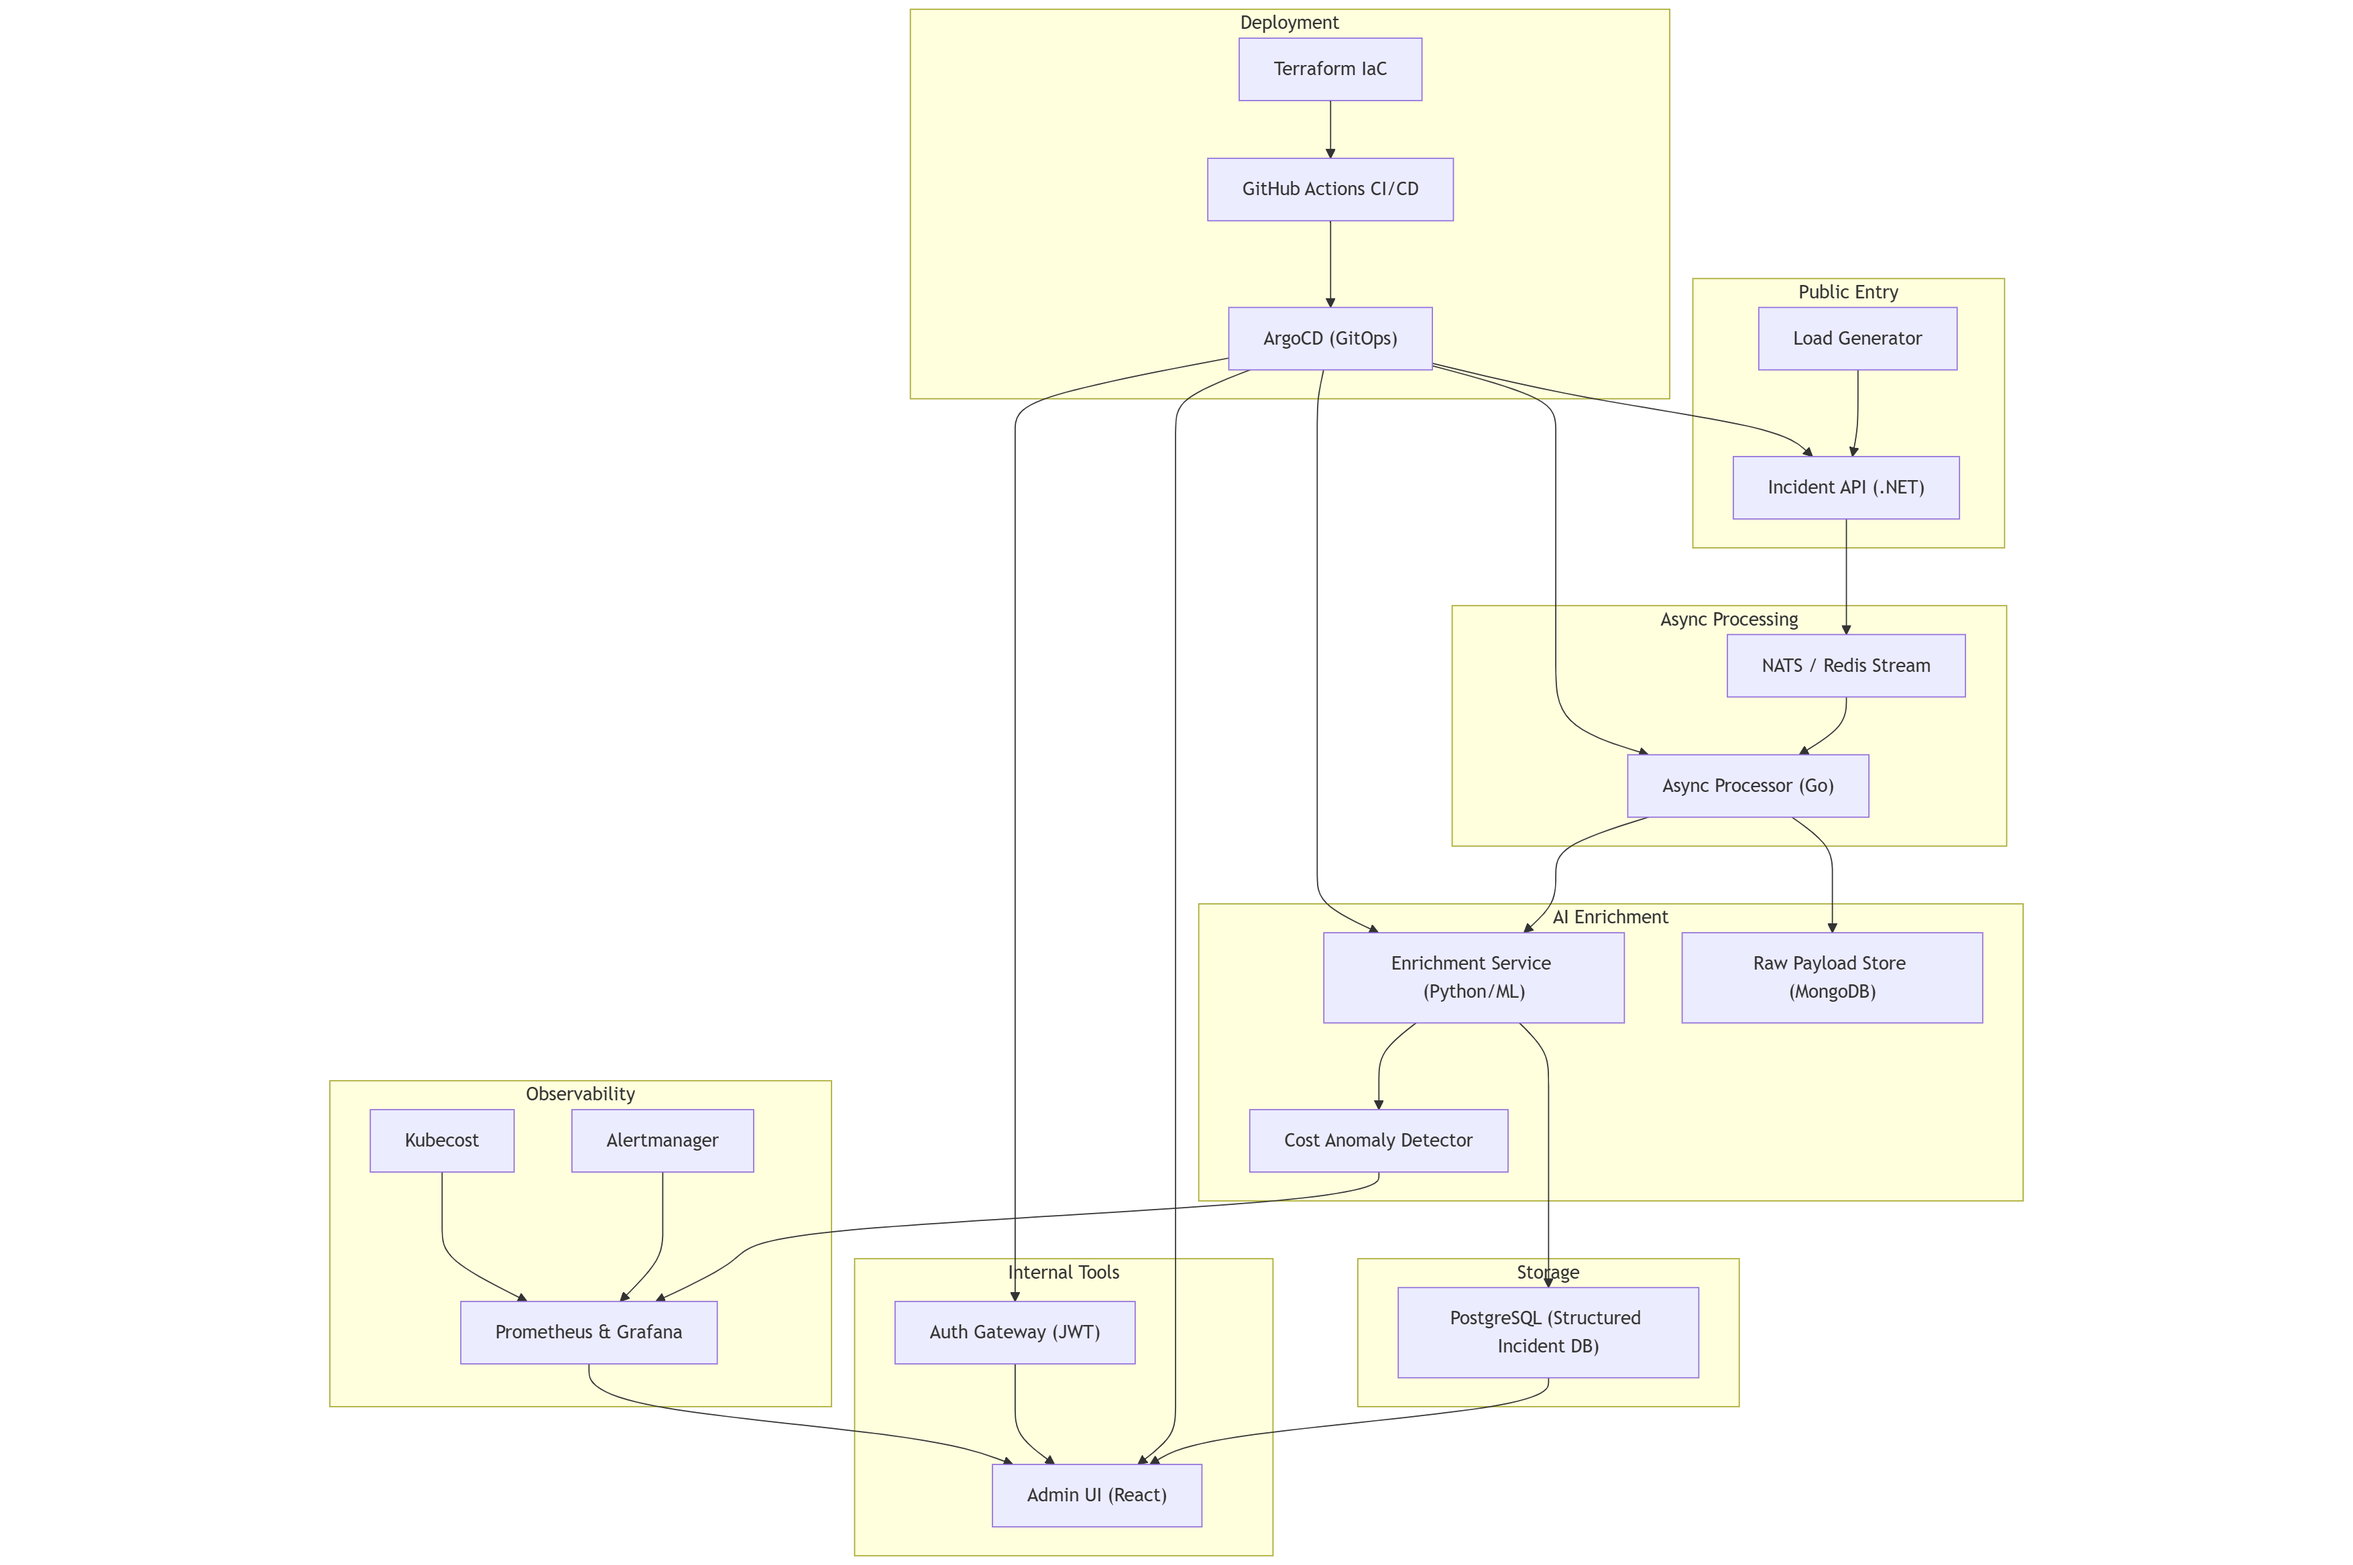
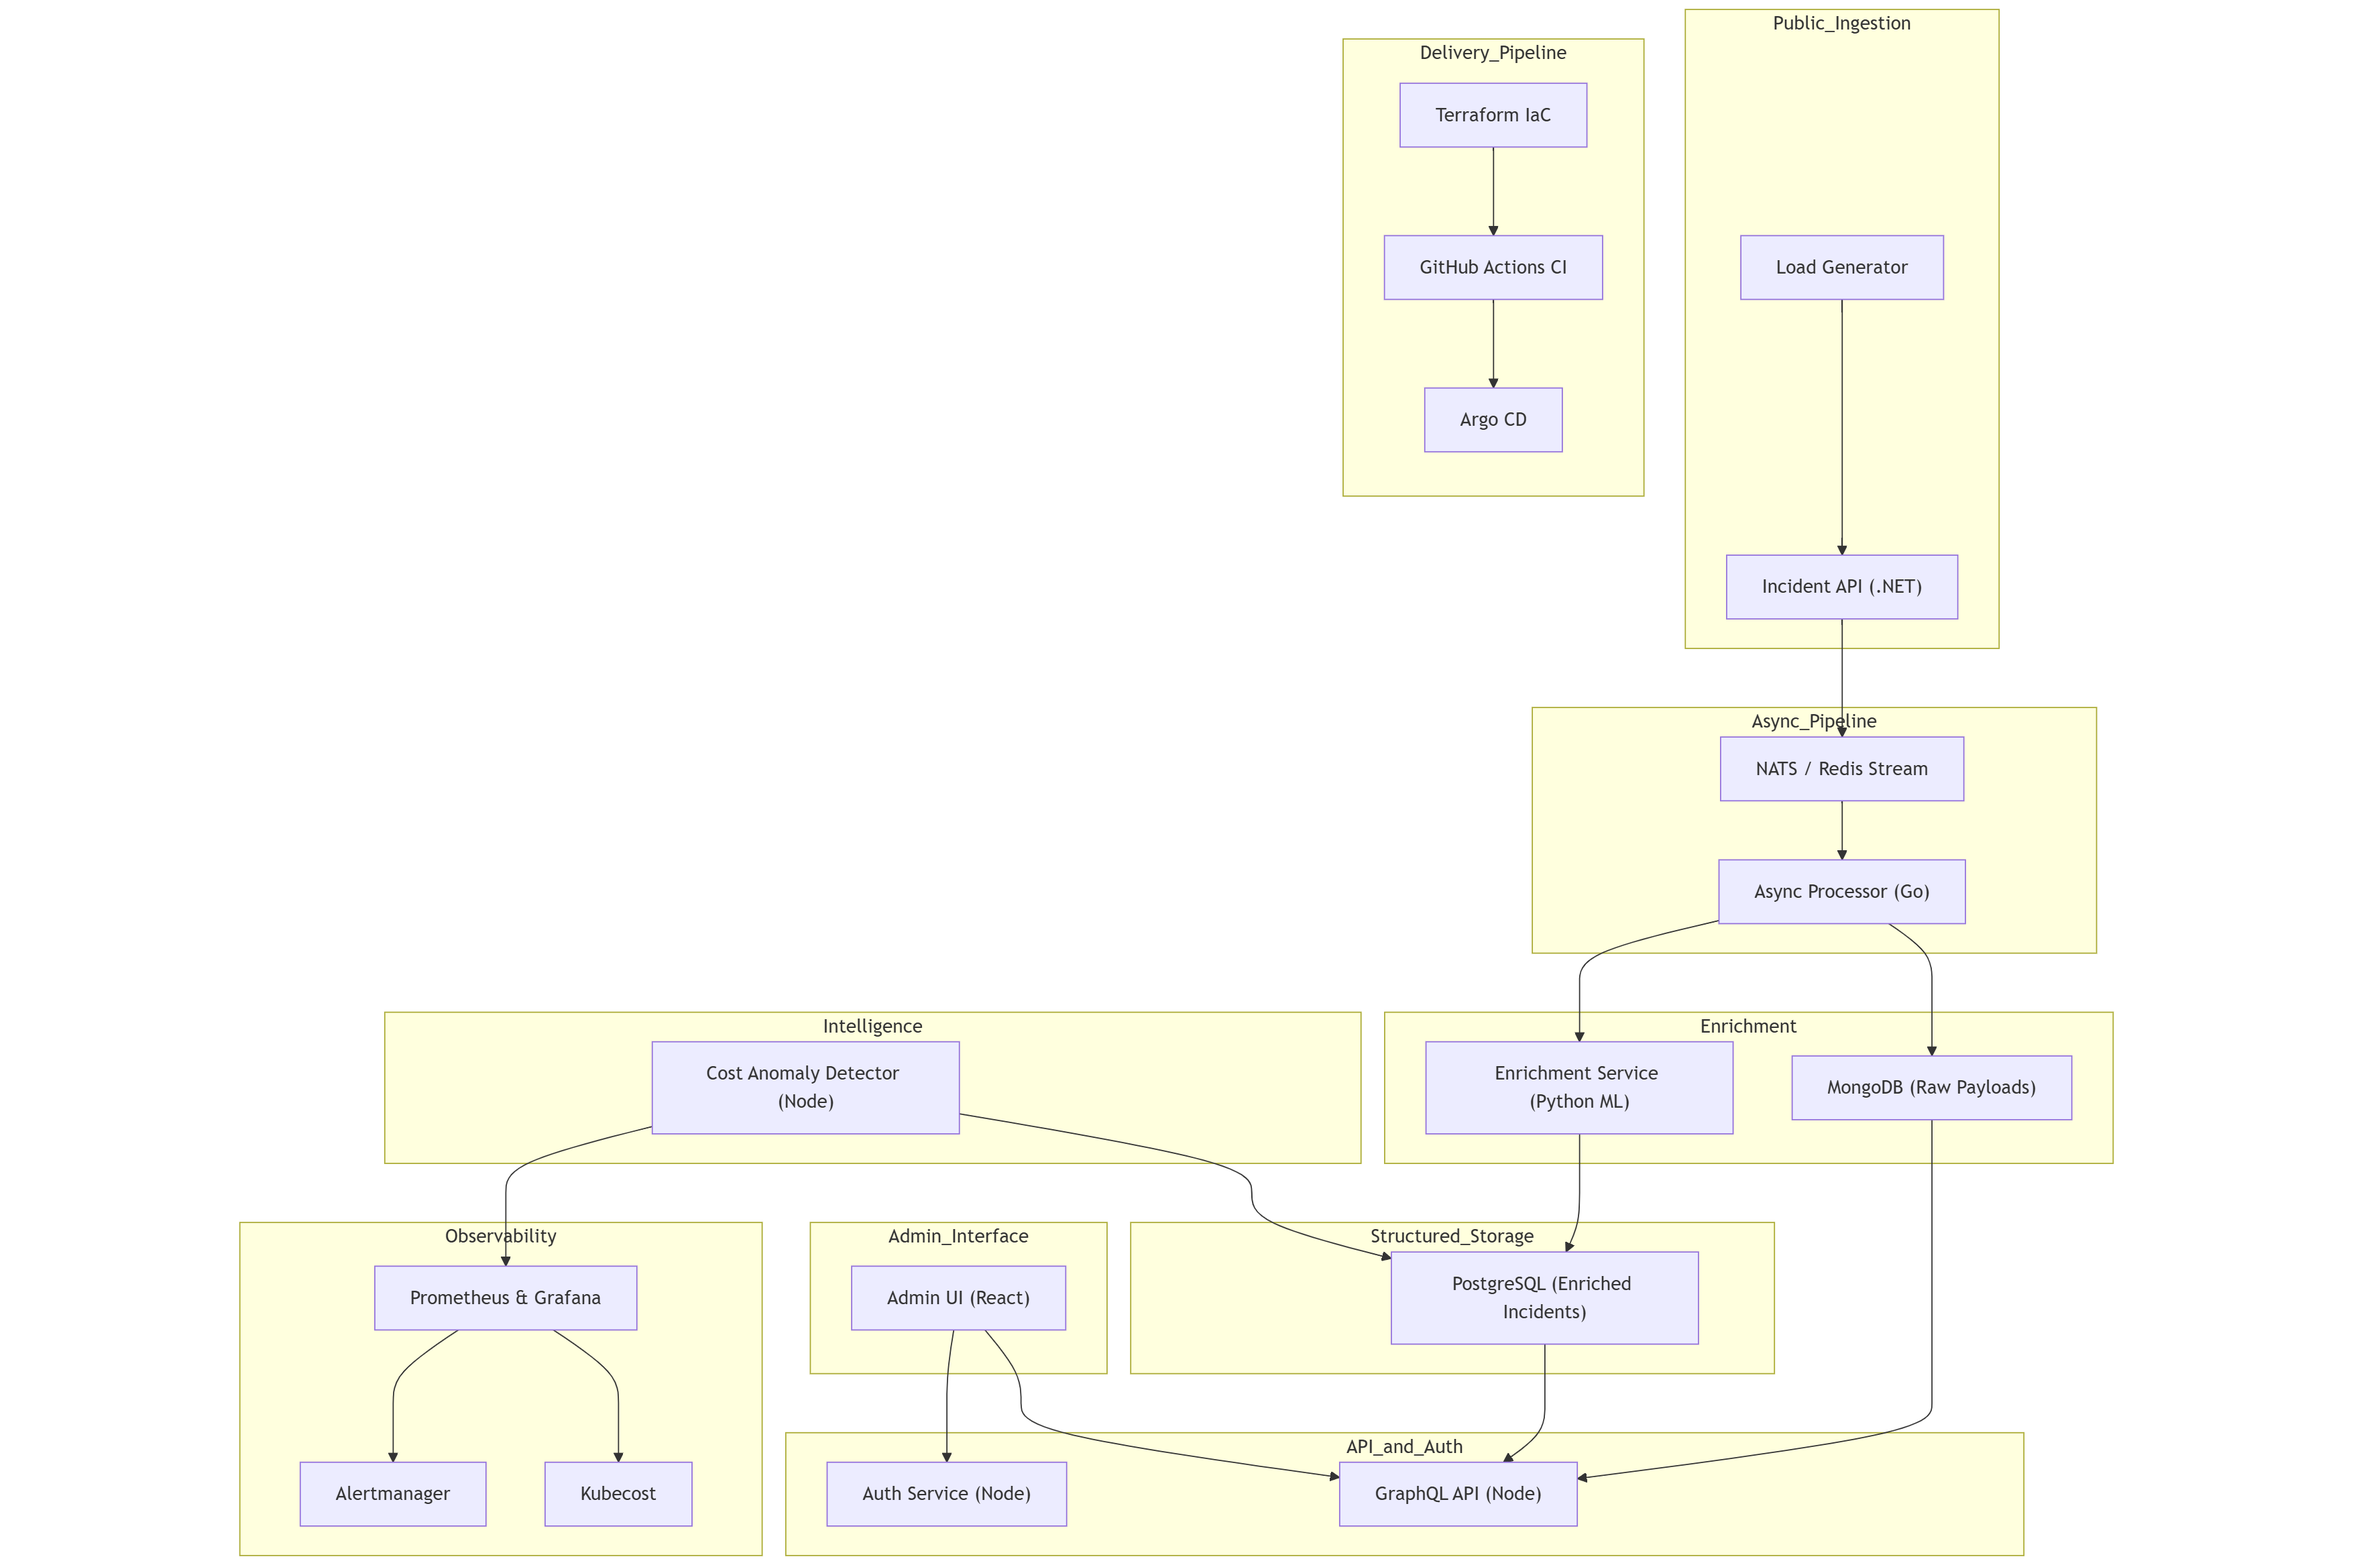
updating scaffold and documentation

Changed region(s): [[0.0932, 0.0, 0.9008, 1.0]]

diff --git a/readme.md b/readme.md
@@ -16,6 +16,7 @@ It includes AI capabilities for incident categorization and cost anomaly detecti
 
 ## Core Components
 [View the full architecture](docs/architecture.md)
+
 | Component                    | Description                                                             |
 |------------------------------|-------------------------------------------------------------------------|
 | Incident API (.NET)          | Accepts HTTP POSTs, validates incidents, emits events                   |
@@ -24,11 +25,13 @@ It includes AI capabilities for incident categorization and cost anomaly detecti
 | Cost Anomaly Detector        | Analyzes metrics from Prometheus and Kubecost to flag unusual behavior  |
 | PostgreSQL                   | Central structured incident storage                                     |
 | Admin UI (React)             | Internal dashboard for browsing, filtering, and analyzing incidents     |
-| Auth Gateway                 | Handles user sessions and JWT-based access control                      |
+| Auth Service (Node)          | Handles user sessions and JWT-based access control                      |
 | Load Generator               | Simulates realistic traffic and incident volumes                        |
 | Monitoring Stack             | Prometheus, Grafana, Alertmanager                                       |
 | GitOps Pipeline              | GitHub Actions and ArgoCD for delivery and promotion                    |
 | Infrastructure               | Managed with Terraform for kind, AKS, and EKS environments              |
+| GraphQL API (Node)           | Unified query layer for the UI                                          |
+| Raw Payload Store (MongoDB)  | Stores raw incident JSON                                                | 
 
 ## AI Integrations
 
@@ -81,13 +84,14 @@ Environments are configured using Kustomize overlays and deployed via ArgoCD. Se
 | Category            | Stack                                                             |
 |---------------------|-------------------------------------------------------------------|
 | Infrastructure      | Kubernetes, ArgoCD, Kustomize, Terraform                          |
-| Programming         | .NET 8, Go, Python 3.12, React                                     |
+| Programming         | .NET 8, Go, Python 3.12, React , Add GraphQL, Apollo Server       |
 | Messaging           | NATS or Redis Streams                                             |
 | Monitoring          | Prometheus, Grafana, Alertmanager                                 |
 | Cost Management     | Kubecost, anomaly detection models                                |
 | IAM & Security      | JWT, RBAC, Azure Identity, AWS IRSA                               |
 | Machine Learning    | spaCy, scikit-learn, pandas (local models only)                   |
 | CI/CD               | GitHub Actions, Docker                                            |
+| Persistence         | MongoDB, Postgres                                                 |
 
 ## Why This Project?
 

diff --git a/docs/architecture.md b/docs/architecture.md
@@ -25,23 +25,32 @@ This diagram shows the main components and their interactions across functional 
 - **Enrichment Service (Python):** Applies tagging, severity estimation, and metadata extraction using lightweight machine learning models.
 - **Cost Anomaly Detector:** Processes telemetry from Prometheus and Kubecost to flag unusual cost patterns.
 
-### 4. Storage
+### 4. API and Auth Layer 
+
+- **GraphQL API (Node):**  
+  Provides a unified query surface for the Admin UI.  
+  Combines enriched incidents from PostgreSQL with raw payloads from MongoDB, so the UI never reaches directly into either store.
+- **Auth & Session Service (Node):**  
+  Handles OAuth-based login (Azure AD or GitHub in cloud overlays, a mock provider in dev).  
+  Issues short-lived JWTs, refresh tokens, and enforces role mapping for GraphQL requests.
+
+### 5. Storage
 
 - **PostgreSQL:** Structured relational storage for enriched and normalized incident data used in dashboards and queries.
 
-### 5. Visualization
+### 6. Visualization
 
 - **Admin UI (React):** Internal dashboard for browsing and filtering incidents.
 - **Auth Gateway (JWT):** Protects internal tools and manages session and role-based access.
 
-### 6. Observability
+### 7. Observability
 
 - **Prometheus:** Captures metrics across services.
 - **Grafana:** Visualizes trends and health metrics.
 - **Alertmanager:** Issues alerts based on defined thresholds or failures.
 - **Kubecost:** Tracks resource usage and provides cost analytics per environment.
 
-### 7. Deployment
+### 8. Deployment
 
 - **Terraform:** Infrastructure-as-Code for AKS, EKS, and local `kind` clusters.
 - **GitHub Actions:** CI for testing and packaging.
